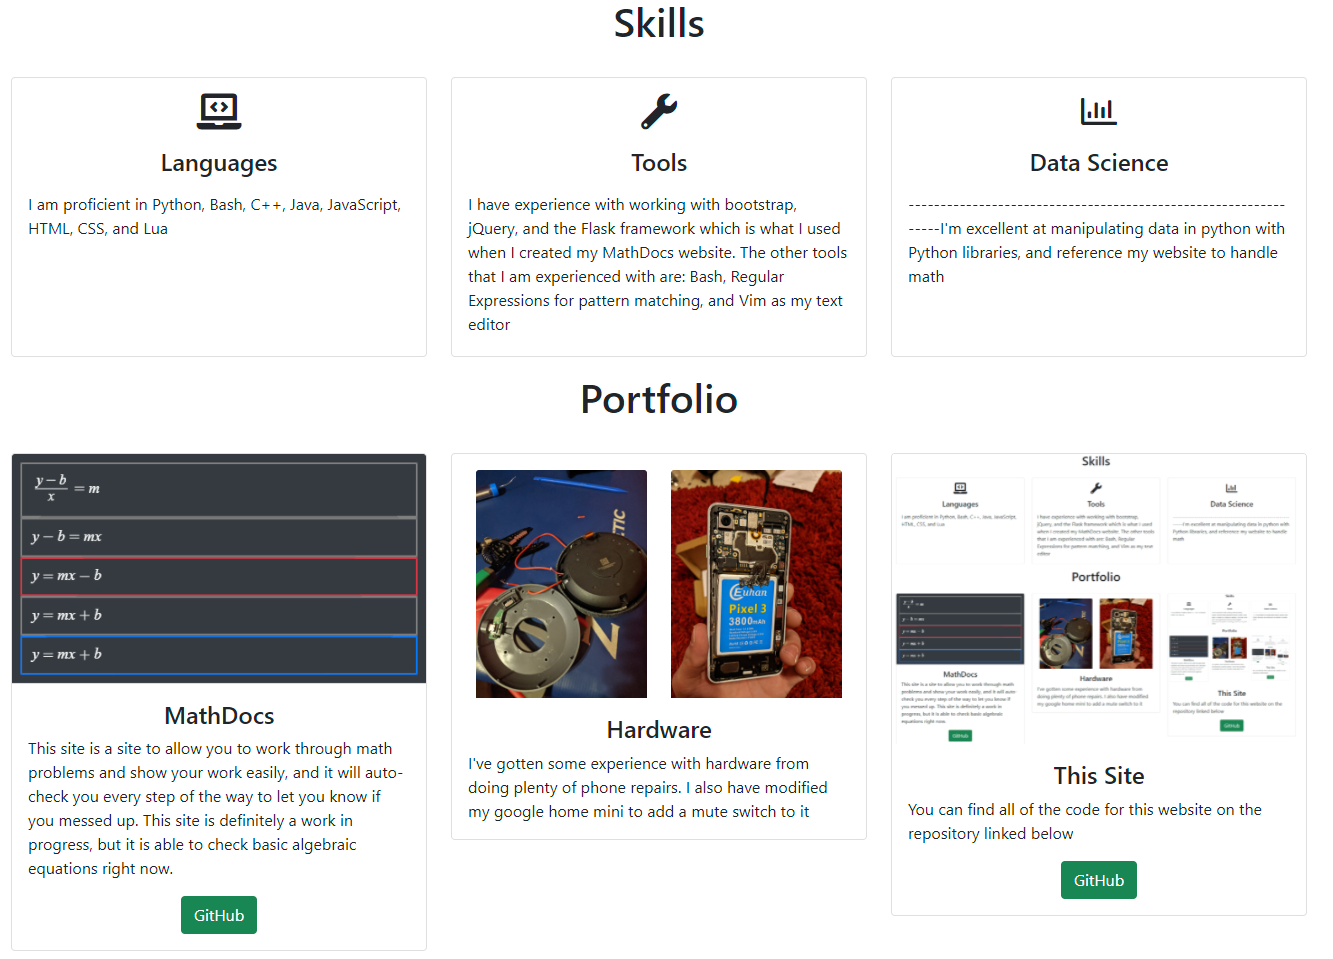
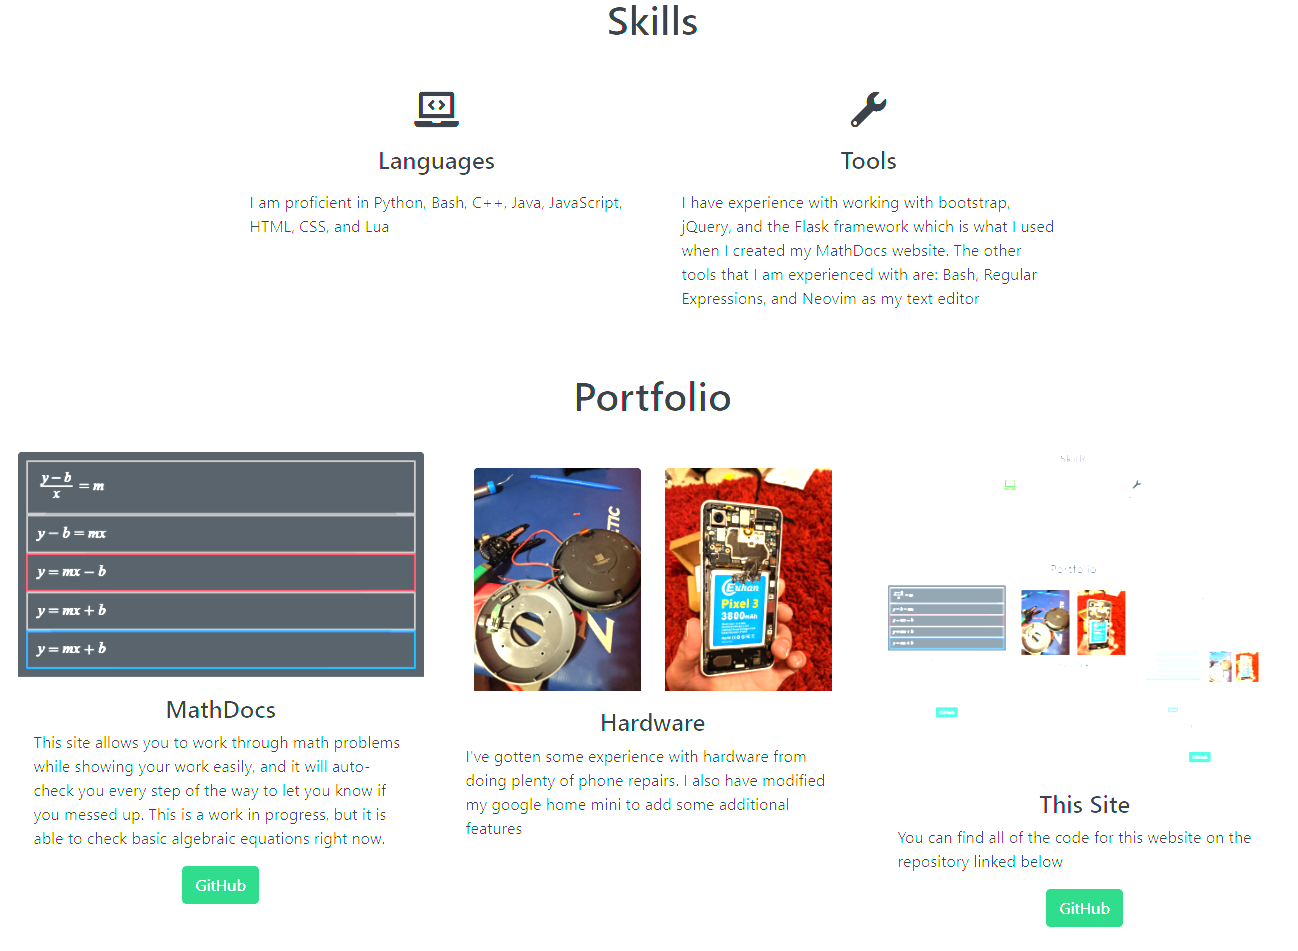
website finished

diff --git a/index.html b/index.html
@@ -36,6 +36,9 @@
                     <li class="nav-item active">
                         <a class="nav-link" href="#home">Home</a>
                     </li>
+                    <li class="nav-item active">
+                        <a class="nav-link" href="#terminal">Terminal</a>
+                    </li>
                     <li class="nav-item">
                         <a class="nav-link" href="#about">About Me</a>
                     </li>
@@ -45,28 +48,39 @@
                     <li class="nav-item">
                         <a class="nav-link" href="#portfolio">Portfolio</a>
                     </li>
+                    <li class="nav-item">
+                        <a class="nav-link" href="#awards">Awards</a>
+                    </li>
+                    <li class="nav-item">
+                        <a class="nav-link" href="#contact">Contact Me</a>
+                    </li>
                 </ul>
             </div>
         </div>
     </nav>
 	<!-- main banner -->
-    <section class="bgimage" id="home">
+    <a class=anchor id="home"></a>
+    <section class="bgimage">
         <div class="container-fluid">
             <div class="row">
-                <div class="col-lg-12 col-md-12 col-sm-12 col-xs-12 hero-text">
+                <div class="col-3"></div>
+                <div class="col-lg-6 col-md-6 col-sm-6 col-xs-6 hero-text">
                     <h2 class="hero_title">Hi, it's me Glenn</h2>
-                    <p class="hero_desc">I am pursuing a Computer Science degree at Texas A&#38;M university</p>
+                    <p class="hero_desc">I am pursuing a Computer Science degree at Texas A&#38;M University</p>
                 </div>
             </div>
         </div>
     </section>
+    <!-- terminal -->
+    <a class=anchor id="terminal"></a>
+        <div class="container overflow-scroll" id=term><span style='color:#12a10d'>┌──(</span><span style='color:#3a78ff'>glenn㉿DESKTOP-github</span><span style='color:#12a10d'>)-[</span>~/resume<span style='color:#12a10d'>]</span><span style='color:#12a10d'><br>└─</span><span style='color:#3a78ff'>$</span> </div>
     <!-- about -->
-    <section id="about">
+    <a class=anchor id="about"></a>
         <div class="container mt-4 pt-4">
             <h1 class="text-center">About Me</h1>
             <div class="row mt-4">
                 <div class="col-lg-4">
-                    <img src="images/acc_portrait.jpg" class= "imageAboutPage" alt="Student of the month photo">
+                    <img src="images/id.jpg" class= "imageAboutPage" alt="Student of the month photo">
                 </div>
 
                 <div class="col-lg-8">
@@ -85,12 +99,12 @@
                     </div>
                 </div>
             </div>
-    </section>
 	<!-- skills section-->
-    <section id="skills">
+    <a class=anchor id="skills"></a>
         <div class="container">
             <h1 class="text-center">Skills</h1>
             <div class="row">
+                <div class="col-2"></div>
                 <div class="col-lg-4 mt-4">
                     <div class="card skillsText">
                         <div class="card-body">
@@ -106,25 +120,14 @@
                         <div class="card-body">
                             <i class='fas skillsIcon fa-wrench'></i>
                             <h4 class="card-title mt-3">Tools</h4>
-                            <p class="card-text mt-3">I have experience with working with bootstrap, jQuery, and the Flask framework which is what I used when I created my MathDocs website. The other tools that I am experienced with are: Bash, Regular Expressions for pattern matching, and Vim as my text editor</p>
-                        </div>
-                    </div>  
-                </div>
-
-                <div class="col-lg-4 mt-4">
-                    <div class="card skillsText">
-                        <div class="card-body">
-                            <i class='far skillsIcon fa-chart-bar'></i>
-                            <h4 class="card-title mt-3">Data Science</h4>
-                            <p class="card-text mt-3">----------------------------------------------------------------I'm excellent at manipulating data in python with Python libraries, and reference my website to handle math</p>
+                            <p class="card-text mt-3">I have experience with working with bootstrap, jQuery, and the Flask framework which is what I used when I created my MathDocs website. The other tools that I am experienced with are: Bash, Regular Expressions, and Neovim as my text editor</p>
                         </div>
                     </div>  
                 </div>
             </div>
         </div>
-    </section>
 <!-- portfolio section-->
-    <section id="portfolio">
+    <a class=anchor id="portfolio"></a>
         <div class="container mt-3">
             <h1 class="text-center">Portfolio</h1>
             <div class="row">
@@ -133,7 +136,7 @@
                         <img class="card-img-top" src="images/mathdocs.png" alt="Card image" style="width:100%">
                         <div class="card-body">
                             <h4 class="card-title">MathDocs</h4>
-                            <p class="card-text">This site is a site to allow you to work through math problems and show your work easily, and it will auto-check you every step of the way to let you know if you messed up. This site is definitely a work in progress, but it is able to check basic algebraic equations right now.</p>
+                            <p class="card-text">This site allows you to work through math problems while showing your work easily, and it will auto-check you every step of the way to let you know if you messed up. This is a work in progress, but it is able to check basic algebraic equations right now.</p>
                             <div class="text-center">
                                 <a href="https://github.com/glennedstrom/MathDocs" target="_blank" rel="noopener noreferrer" class="btn btn-success">GitHub</a>
                             </div>
@@ -174,18 +177,41 @@
                 </div>
 
             </div>
-    </section>
 
+<!-- awards section-->
+    <a class=anchor id="awards"></a>
+        <div class="container mt-3">
+            <h1 class="text-center">Awards</h1>
+            <div class="row">
+                <div class="col-lg-6 mt-4">
+                    <div class="card">
+                        <img class="mx-auto card-img-top" src="images/acc_portrait.jpg" alt="Card image" style="width:50%">
+                        <div class="card-body">
+                            <h4 class="card-title">ACCelerator Persistence Scholarship for the Fall 2021 Semester at Austin Community CollegeACCelerator</h4>
+                            <p class="card-text">Issued by Austin Community College · Dec 2021</p>
+                        </div>
+                    </div>
+                </div>
+
+                <div class="col-lg-6 mt-4">
+                    <div class="card portfolioContent">
+                        <img class="card-img-top" src="images/studentofthemonth.png" alt="Card image" style="width:100%">
+                        <div class="card-body">
+                            <h4 class="card-title">Nominated for the ACCelerator Student Appreciation Monitor</h4>
+                            <p class="card-text">Issued by Austin Community College · Dec 2021</p>
+                        </div>
+                    </div>
+                </div>
+
+            </div>
 <!-- contact section-->
-    <section id="contact">
+    <a class=anchor id="contact"></a>
         <div class="container mt-3 contactContent">
             <h1 class="text-center">Contact Me</h1>
+            <div style="text-align: center; font-size:70px">
+                <a href="https://www.linkedin.com/in/glenn-edstrom/" target="_blank"><i class="fab fa-linkedin"></i></a>
+            </div>
         </div>
-    </section>
-
-
-    </br>
-    <p id="carat">></p>
 	<script src="script/script.js"></script>
 </body>
 </html>

diff --git a/script/script.js b/script/script.js
@@ -3,7 +3,6 @@ const header = document.querySelector('.navbar');
 
 window.onscroll = function() {
     var top = window.scrollY;
-    console.log(header)
     if(top >=100) {
         header.classList.add('navbarDark');
     }
@@ -12,6 +11,74 @@ window.onscroll = function() {
     }
 }
 
+var i = 0
+var path = "~/resume"
+
+//text typing simulation
+function typeWriter(e, command, speed, output, index) {
+  if (i < command.length) {
+    e.innerHTML += command.charAt(i);
+    i++;
+    setTimeout(typeWriter, speed, e, command, speed, output, index);
+  }
+  else {//after  the command is typed, print the output, and call back the original function to loop
+    e.innerHTML += "<br>" + output + "<br>"
+    cmdList = command.split(' ')
+    if (cmdList[0] === 'clear'){
+      $("#term")[0].innerHTML = ''//remove everything
+    }
+    e.innerHTML += "<span style='color:#12a10d'>┌──(</span><span style='color:#3a78ff'>glenn㉿DESKTOP-github</span><span style='color:#12a10d'>)-[</span>"+path+"<span style='color:#12a10d'>]</span><span style='color:#12a10d'><br>└─</span><span style='color:#3a78ff'>$</span> "
+    index += 1
+    if (index === commandloop.length){
+      //return
+      index = 0
+    }
+    i = 0
+    setTimeout(termloop, 1500, index)
+
+  }
+}
+
+// linux command and current directory
+function command(command, index){
+    e = document.getElementById('term')
+
+    //e.innerHTML += "<span style='color:#12a10d'>┌──(</span><span style='color:#3a78ff'>glenn㉿DESKTOP-github</span><span style='color:#12a10d'>)-[</span>"+path+"<span style='color:#12a10d'>]</span><span style='color:#12a10d'><br>└─</span><span style='color:#3a78ff'>$</span> "
+    typeWriter(e, command[0], 125, command[1], index)
+
+}
+
+
+//list of commands, and their outputs to display on the mock terminal
+commandloop = [
+  [
+    "whoami","glenn<br>"
+  ],
+  [
+    "ls","languages.txt  portfolio.txt  tools.txt<br>"
+  ],
+  [
+    "cat languages.txt","Python Bash C++ Java JavaScript HTML CSS Lua<br>"
+  ],
+  [
+    "cat portfolio.txt","Mathdocs glennedstrom.github.io Hardware<br>"
+  ],
+  [
+    "cat tools.txt","Bash Vim jQuery Flask Regex<br>"
+  ],
+  [
+    "clear", ""
+  ]
+]
+
+//recursive function to loop through the commands and print
+function termloop(index=0) {
+    term = document.getElementById('term')
+    command(commandloop[index], index)
+}
+
+
 $(function(){
     $('#age').text("Age: " + Math.floor( (Date.now() - 1033516800000)/31540000000 ));
+    termloop()
 })

diff --git a/style.css b/style.css
@@ -1,9 +1,17 @@
+/* navbar */
+a.anchor {
+    display: block;
+    position: relative;
+    top: -250px;
+    visibility: hidden;
+}
 /* hero image */
 .bgimage {
     height:100vh;
-    background: url('images/coffee.jpg');
+    background: url('images/tamu.jpg');
     background-size:cover;
     position:relative;
+    background-position: center;
 }
 /* text css above hero image*/
 .hero_title {
@@ -18,7 +26,18 @@
     top: 50%;
     left: 50%;
     transform: translate(-50%, -50%);
-    color: white;
+    color: #4d0104;
+    background-color:#ffffff77;
+    border-radius: 5px
+}
+
+/* terminal */
+#term {
+    background-color:#000000; 
+    line-height: 20px;
+    color:#a7b191;
+    height: 580px;
+    margin-top:20px;
 }
 
 /* about */
